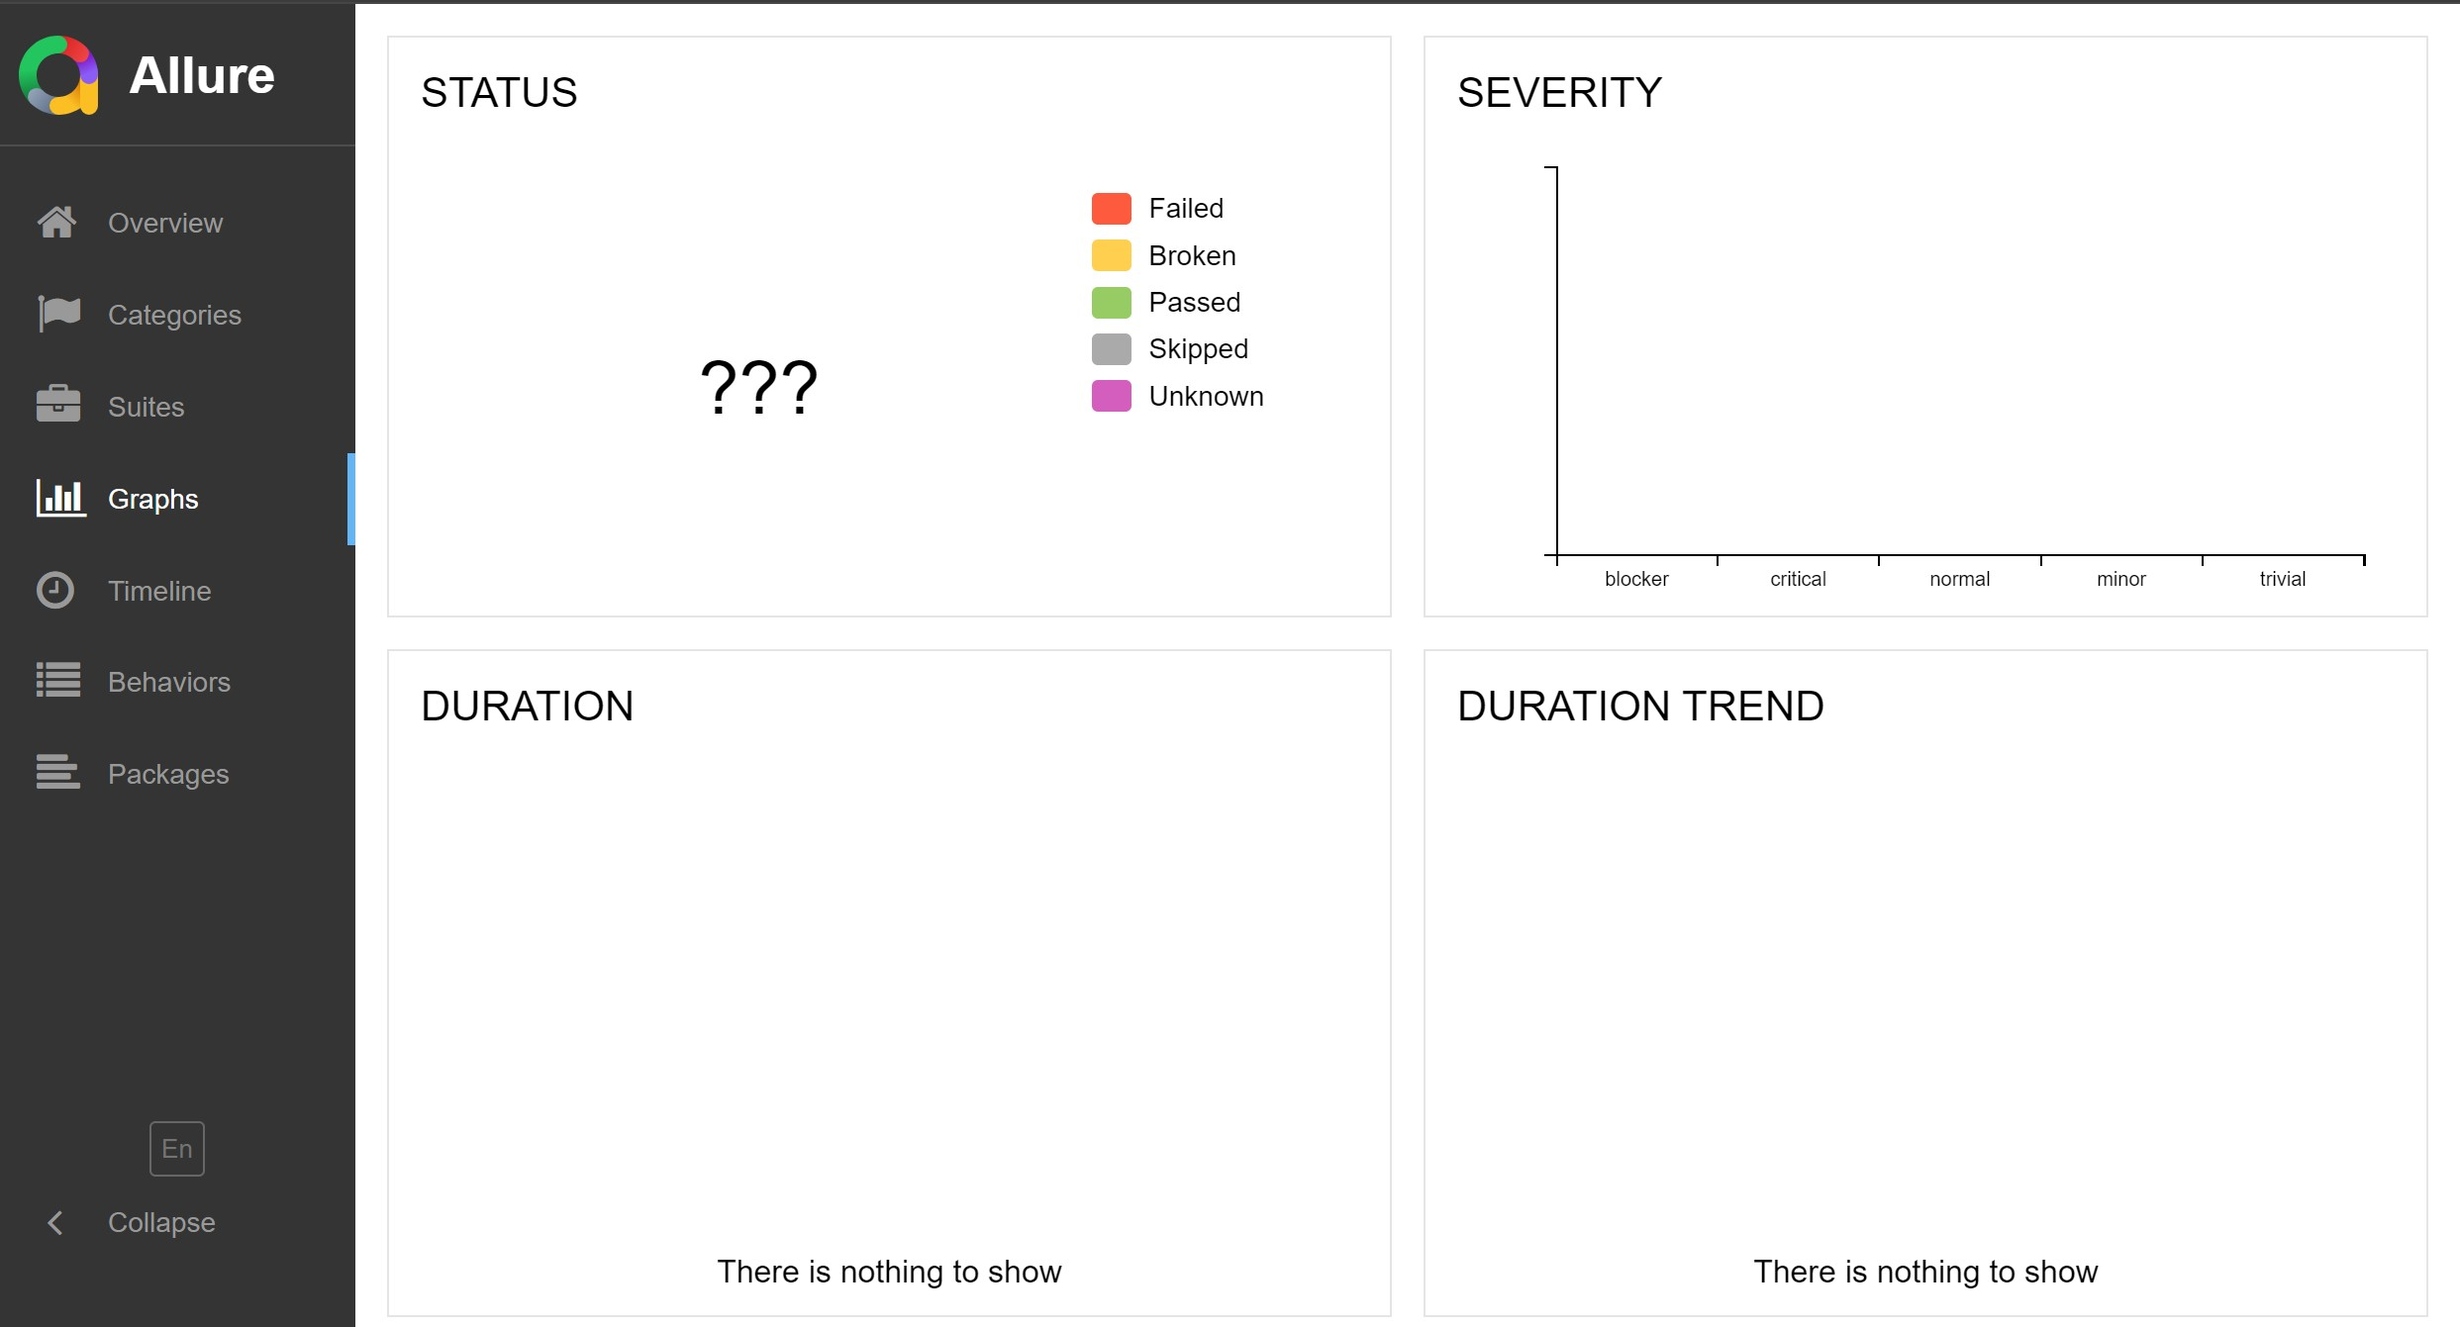
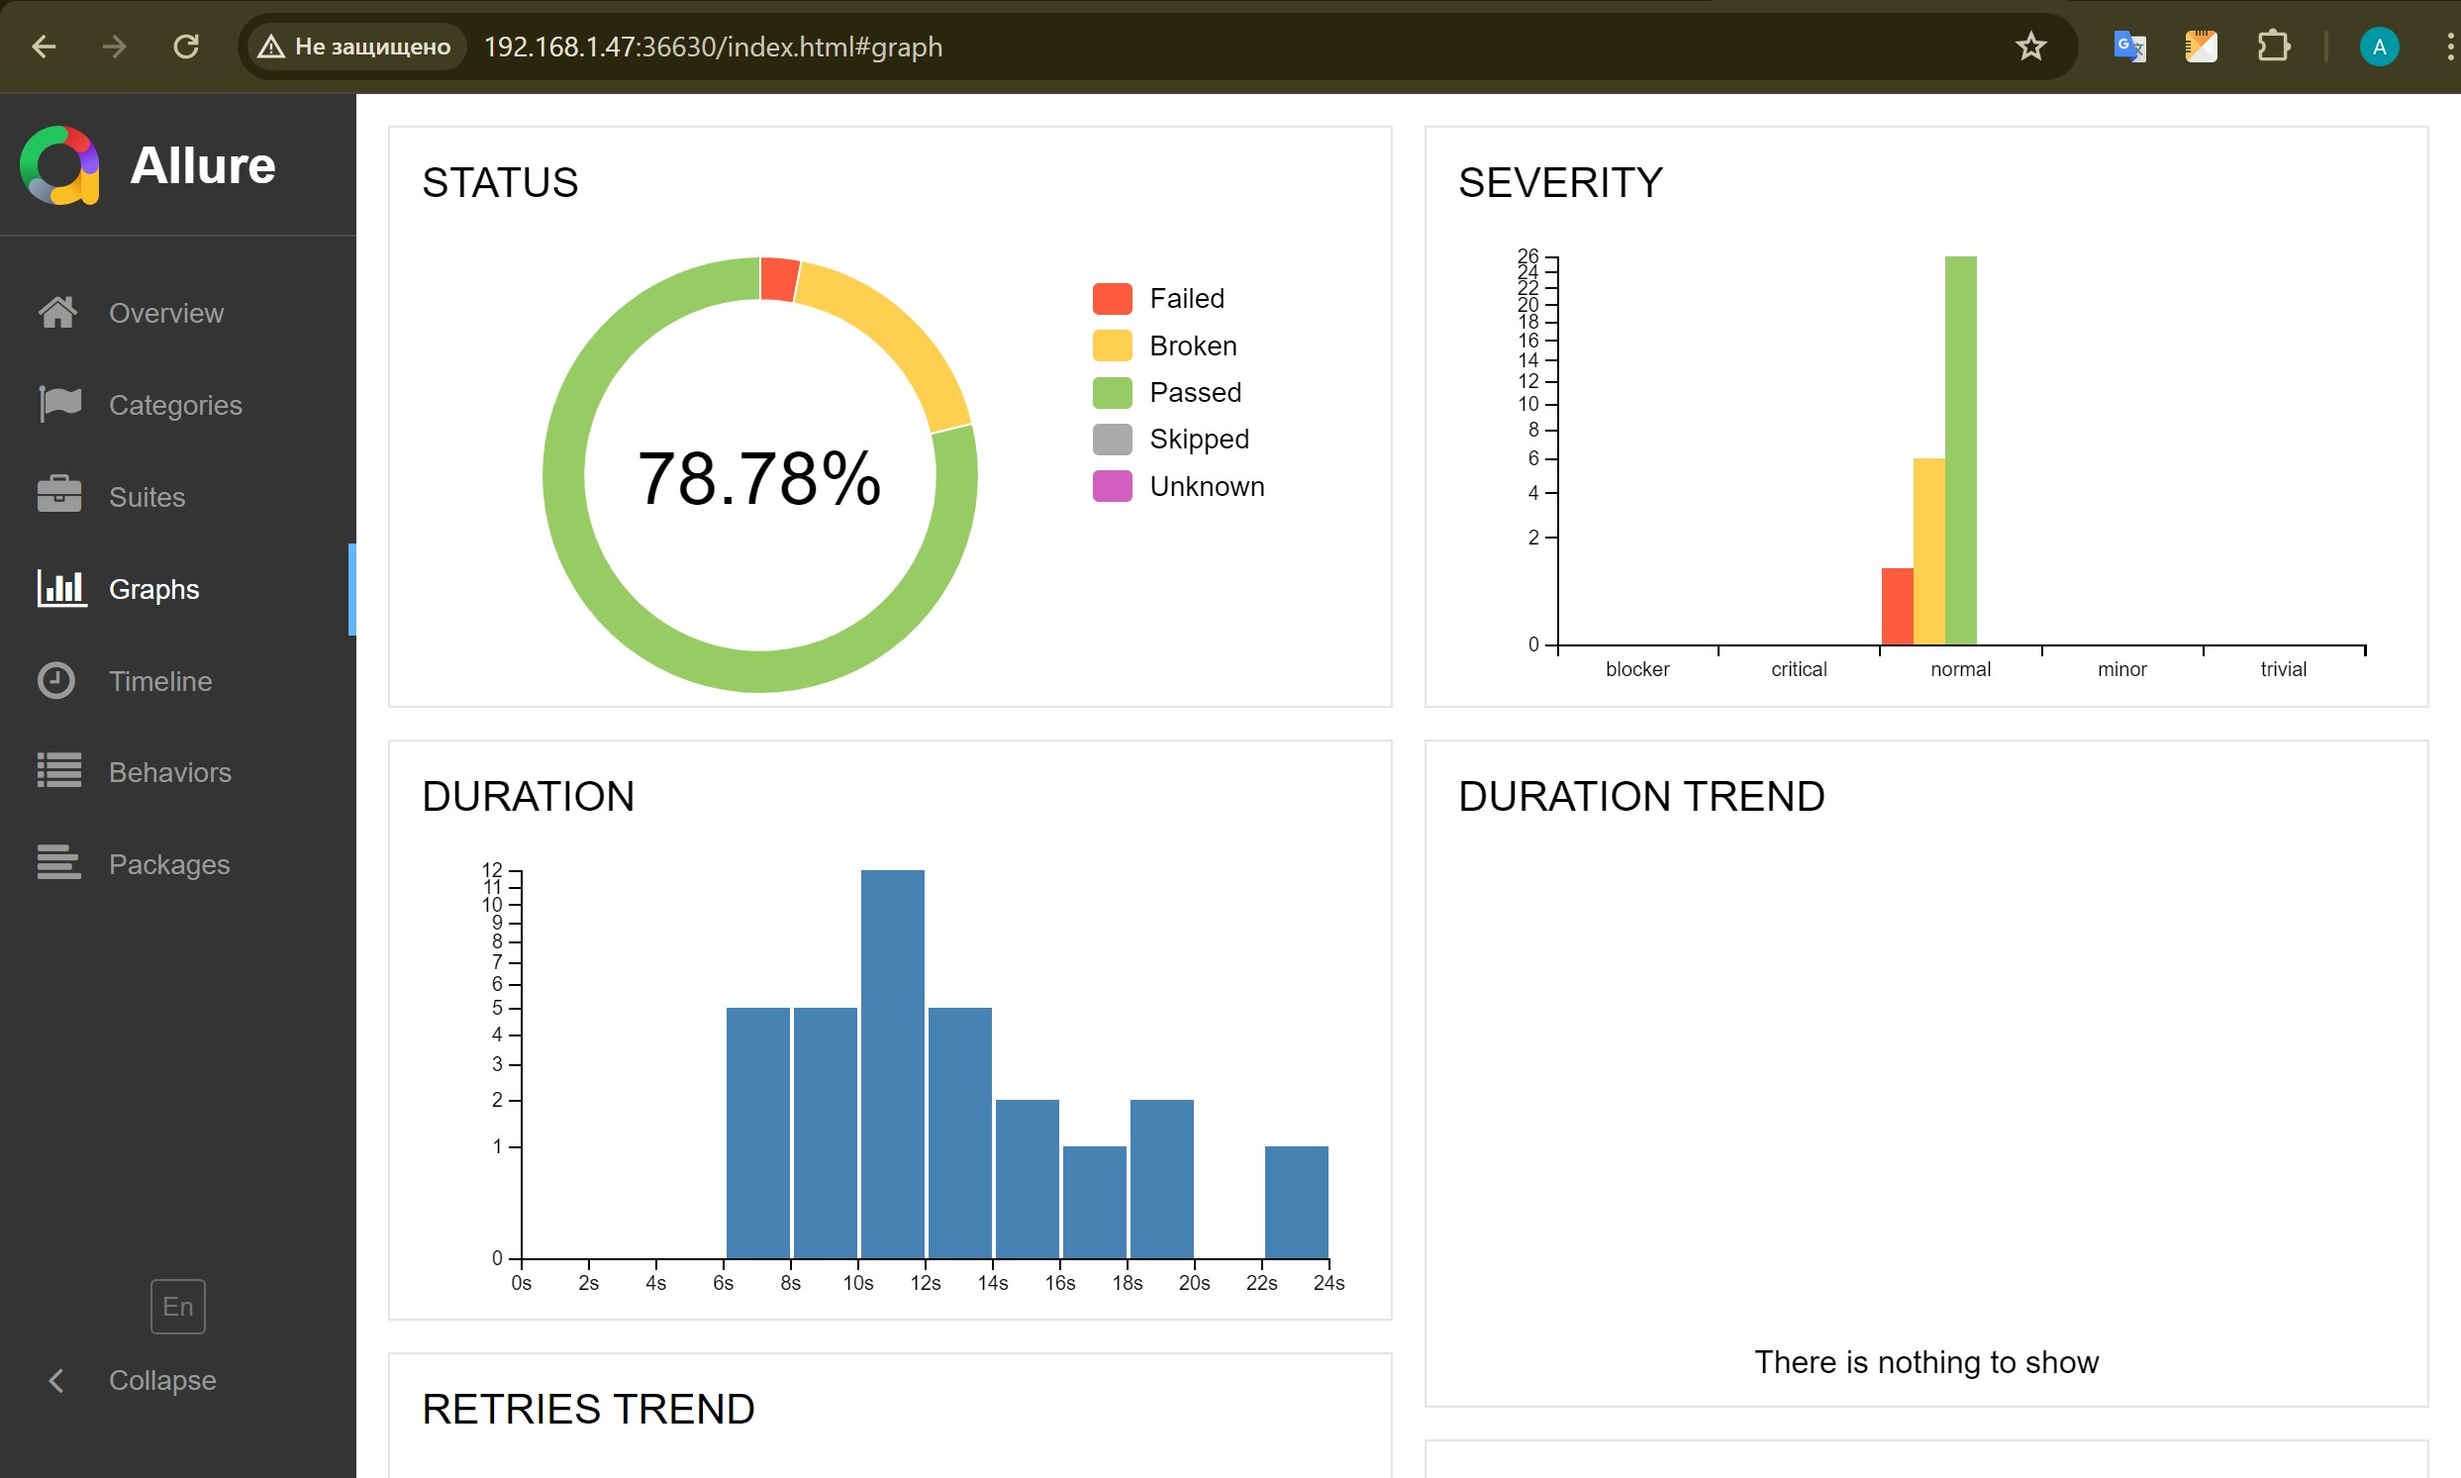
Change result project

diff --git a/documents/Result.md b/documents/Result.md
@@ -4,9 +4,9 @@
 
 ## Количество тест-кейсов
 
-В процессе автоматизированного тестирования был реализовано 33 тест-кейсов.
+В процессе автоматизированного тестирования был реализовано 33 тест-кейса.
 В ходе автоматического тестирования приложения на эмуляторе Medium Phone API 29
-успешно пройдено Unknown тестов (Unknown % - успешных тестов)
+успешно пройдено 26 тестов (78,78 % - успешных тестов)
 
 ![](https://github.com/AleksandrMuzhev/qamid-diplom/blob/main/documents/allure-result.jpg)
 
@@ -18,6 +18,5 @@
 
 - написание тест кейсов и чек-листа: 31 часов
 - ручное тестирование: 2 часа
-
 - написание автотестов: 47 часов
 - ui тесты: 10 минут
